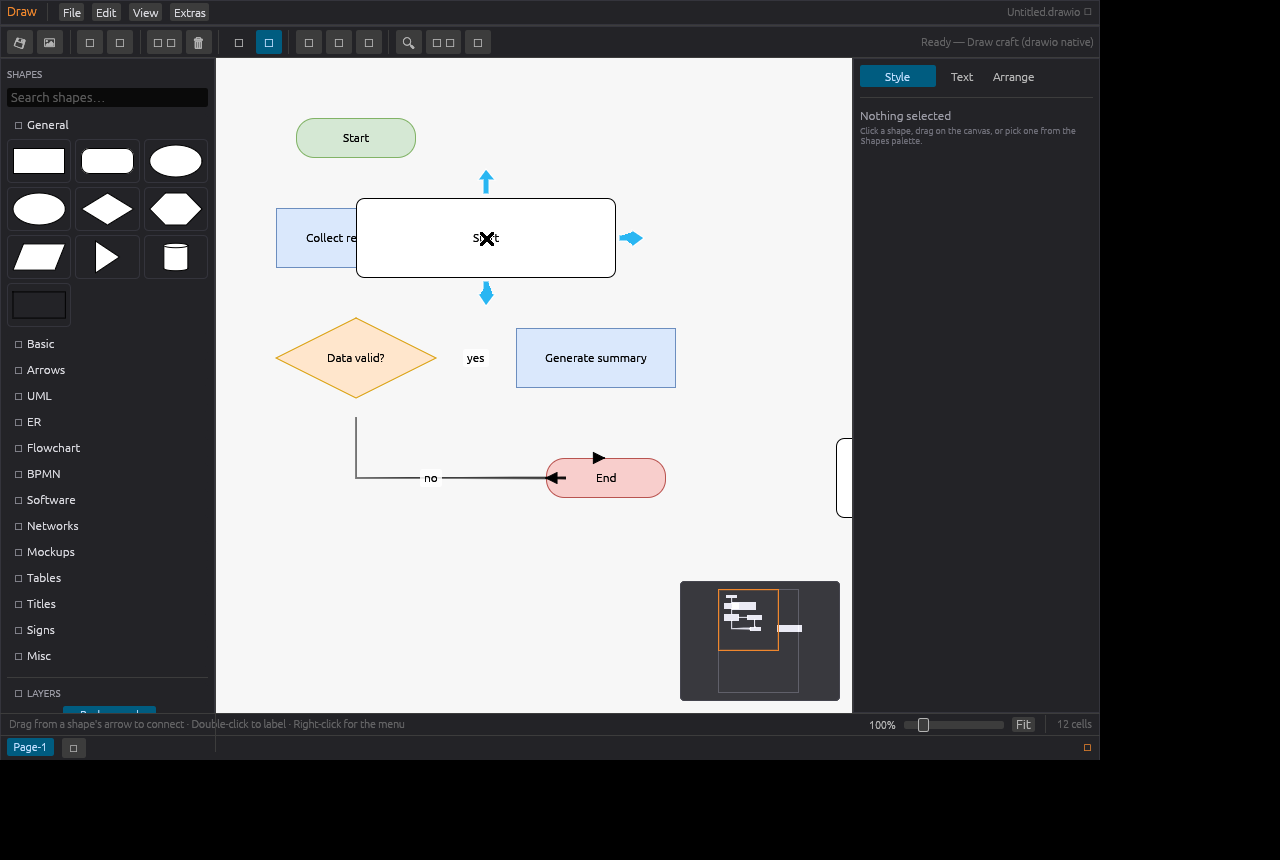
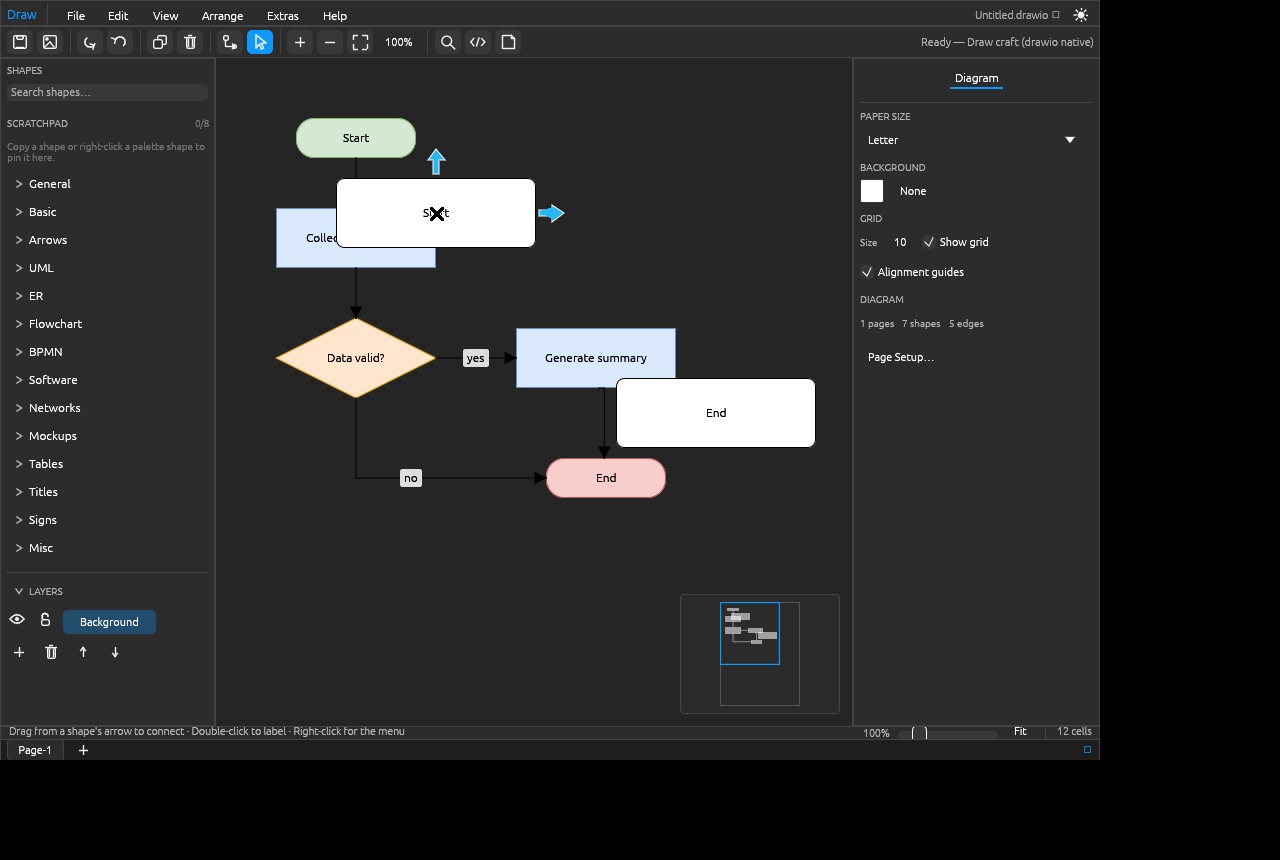
Draw: five drawio-parity fixes — edge rendering, drag math, connection jetties, edge-touch arrows, edge click-select
- paint_edge: seed the jump-path with the polyline's first point — 2-point
  edges painted nothing (Start->Collect etc. invisible), longer routes lost
  their first segment (Generate->End rendered as a stray sideways arrowhead)
- orthogonal_chain: target jetty flipped outward (b.pos + enter_dir*jb) so
  the line stops short of the border instead of overshooting into the shape
  and doubling back with a backwards arrowhead; side-aware bends via
  terminal_axis() (mxGraph OrthConnector dir semantics): final run vertical
  into top/bottom borders, horizontal into left/right; first waypoint bend
  keeps the exit axis
- Drag::Move: grab = press-world position (was the shape-origin offset,
  double-counted as delta — dragging teleported nodes by their own x/y)
- hover arrows stay bright while the pointer is within 8px of the shape
  border (drawio HoverIcons tolerance); widget padding 3->1 so presses on
  the border still drag the node
- pick_edge: hit-test in screen space (routes are screen-space; world-space
  pointer never matched when the canvas origin != 0) + edge selection moved
  to the click path (egui 0.36 postpones drag_started for motionless presses)

Verified under Xvfb: all sample edges render drawio-exact, node drag moves
by the exact pointer delta with edges re-anchoring live, arrow-drag connect
at fixed points and endpoint re-link pass shots/connect-test.sh, unit tests
green. Gallery shots 06/12-19 re-captured on the fixed build; before/after
[…]

diff --git a/crates/drawio/src/canvas.rs b/crates/drawio/src/canvas.rs
@@ -427,8 +427,8 @@ fn canvas_input(
                     return;
                 }
                 // vertex / edge pick
-                let picked = pick_vertex(app.page(), world, false).map(|c| (c.id.clone(), c.geom.x, c.geom.y));
-                if let Some((id, px, py)) = picked {
+                let picked = pick_vertex(app.page(), world, false).map(|c| c.id.clone());
+                if let Some(id) = picked {
                     if !app.selected.contains(&id) {
                         let mods = ui.input(|i| i.modifiers);
                         if mods.shift {
@@ -437,12 +437,15 @@ fn canvas_input(
                             app.selected = vec![id.clone()];
                         }
                     }
-                    let grab = Vec2::new(world.x - px, world.y - py);
                     let ids = app.selected.clone();
                     let orig = positions(app, &ids);
+                    // press-world reference: the drag delta is world − press
+                    // (grab used to store the shape-origin offset, which
+                    // double-counted it and teleported nodes by their own x/y)
+                    let grab = Vec2::new(world.x, world.y);
                     app.push_undo();
                     app.drag = Drag::Move { ids, grab, orig, moved: false };
-                } else if let Some(id) = pick_edge(routes, world, app.zoom) {
+                } else if let Some(id) = pick_edge(routes, p, app.zoom) {
                     if !app.selected.contains(&id) {
                         app.selected = vec![id];
                     }
@@ -579,8 +582,16 @@ fn canvas_input(
                 }
             }
             Tool::Select => {
-                // plain click without drag on empty: clear selection
-                if pick_vertex(app.page(), world, false).is_none() && pick_edge(routes, world, app.zoom).is_none() {
+                // drawio selects on mouse-up. egui 0.36 postpones drag_started
+                // for motionless presses, so a plain click owns edge selection
+                // (vertex selection happens on press; keep it here).
+                if pick_vertex(app.page(), world, false).is_some() {
+                    // keep the press-time selection
+                } else if let Some(id) = pick_edge(routes, p, app.zoom) {
+                    if !app.selected.contains(&id) {
+                        app.selected = vec![id];
+                    }
+                } else {
                     app.selected.clear();
                 }
                 app.ctx_menu = None;
@@ -638,7 +649,7 @@ fn canvas_input(
             let v = c.value.clone();
             app.edit_label = Some((c.id.clone(), v.clone(), v));
             app.edit_just_opened = true;
-        } else if let Some(id) = pick_edge(routes, world, app.zoom) {
+        } else if let Some(id) = pick_edge(routes, p, app.zoom) {
             // near an existing waypoint? remove it. near the midpoint? edit label. else add waypoint.
             let near_wp = app
                 .page()
@@ -688,7 +699,7 @@ fn canvas_input(
     if resp.secondary_clicked() {
         let Some(p) = resp.interact_pointer_pos() else { return };
         let world = s2w(p);
-        let cell = pick_vertex(app.page(), world, true).map(|c| c.id.clone()).or_else(|| pick_edge(routes, world, app.zoom));
+        let cell = pick_vertex(app.page(), world, true).map(|c| c.id.clone()).or_else(|| pick_edge(routes, p, app.zoom));
         if let Some(id) = cell.clone()
             && !app.selected.contains(&id)
         {
@@ -812,10 +823,11 @@ fn pick_vertex(page: &Diagram, world: Pos2, include_locked: bool) -> Option<&Cel
     })
 }
 
-fn pick_edge(routes: &[(String, style::EdgeRoute, Vec<Pos2>)], world: Pos2, zoom: f32) -> Option<String> {
+fn pick_edge(routes: &[(String, style::EdgeRoute, Vec<Pos2>)], screen_p: Pos2, zoom: f32) -> Option<String> {
+    // routes are in SCREEN space: hit-test with the screen pointer, not world
     let tol = 6.0 / zoom.max(0.3);
     routes.iter().rev().find_map(|(id, _, pts)| {
-        pts.windows(2).any(|w| dist_to_seg(world, w[0], w[1]) < tol).then(|| id.clone())
+        pts.windows(2).any(|w| dist_to_seg(screen_p, w[0], w[1]) < tol).then(|| id.clone())
     })
 }
 
@@ -1001,7 +1013,10 @@ fn hover_arrows(
         (&ARROW_DOWN_PTS, ARROW_DOWN_SIZE, Pos2::new(cx - ARROW_DOWN_SIZE.0 / 2.0, b.bottom()), (0.5, 1.0)),
         (&ARROW_LEFT_PTS, ARROW_LEFT_SIZE, Pos2::new(b.left() - ARROW_LEFT_SIZE.0, cy - ARROW_LEFT_SIZE.1 / 2.0), (0.0, 0.5)),
     ];
-    let inside_shape = ptr.map(|p| shape_r.expand(2.0).contains(p)).unwrap_or(false);
+    let inside_shape = ptr.map(|p| shape_r.expand(8.0).contains(p)).unwrap_or(false);
+    // "touch on the edge": arrows stay bright while the pointer is on the
+    // shape or within 8 px of its border (drawio keeps HoverIcons active
+    // across the whole shape bbox + tolerance, not only the interior)
     // drawio draws edge-endpoint handles ABOVE the hover icons — when a
     // selected edge's endpoint sits at a fixed point, its handle must win the
     // press over the shape's arrow (mxConstraintHandler/overlay pane order).
@@ -1041,7 +1056,7 @@ fn hover_arrows(
         if overlapped {
             continue;
         }
-        let hresp = ui.allocate_rect(box_r.expand(3.0), Sense::click_and_drag());
+        let hresp = ui.allocate_rect(box_r.expand(1.0), Sense::click_and_drag());
         // inactiveOpacity 15 until the pointer reaches the shape or the arrow
         let alpha = if hresp.hovered() || hresp.dragged() || inside_shape { 255u8 } else { ARROW_INACTIVE_ALPHA };
         let fill = Color32::from_rgba_unmultiplied(0x29, 0xb6, 0xf2, alpha);
@@ -1417,8 +1432,14 @@ fn paint_edge(p: &egui::Painter, pts: &[Pos2], st: &str, look: &Look, jumps: &[(
     match style::edge_route(st) {
         style::EdgeRoute::Curved => paint_curve(p, pts, look, &dash, st),
         _ => {
-            // path with jump arcs
-            let mut path: Vec<Pos2> = Vec::with_capacity(pts.len() + jumps.len() * 6);
+            // path with jump arcs. Seed with the FIRST point: each window only
+            // pushes its end, so without the seed a 2-point edge collapses to a
+            // single point and paints nothing (and longer routes lose their
+            // first segment).
+            let mut path: Vec<Pos2> = Vec::with_capacity(pts.len() + jumps.len() * 6 + 1);
+            if let Some(first) = pts.first() {
+                path.push(*first);
+            }
             let jr = (4.0 * zoom.max(0.5)).min(9.0);
             for (si, w) in pts.windows(2).enumerate() {
                 let seg_jumps: Vec<f32> = jumps.iter().filter(|(s, _)| *s == si).map(|(_, t)| *t).collect();

diff --git a/crates/drawio/examples/connect-demo.rs b/crates/drawio/examples/connect-demo.rs
@@ -37,7 +37,7 @@ impl eframe::App for Demo {
             dump += &format!("\"view\":[{:.1},{:.1}],", r.min.x, r.min.y);
         }
         dump += &format!(
-            "\"pan\":[{:.1},{:.1}],\"zoom\":{:.2},\"connect\":\"{}\",\"hover\":{},",
+            "\"pan\":[{:.1},{:.1}],\"zoom\":{:.2},\"connect\":\"{}\",\"hover\":{},\"selected\":{},",
             self.0.pan.x, self.0.pan.y, self.0.zoom,
             match &self.0.connect {
                 doccraft_drawio::connection::ConnectState::Idle => "Idle".into(),
@@ -45,6 +45,7 @@ impl eframe::App for Demo {
                 doccraft_drawio::connection::ConnectState::EndpointDrag { edge, .. } => format!("EndpointDrag({edge})"),
             },
             self.0.hover.as_ref().map(|(id, _)| format!("\"{id}\"")).unwrap_or("null".into()),
+            format!("[{}]", self.0.selected.iter().map(|i| format!("\"{i}\"")).collect::<Vec<_>>().join(",")),
         );
         dump += "\"shapes\":[";
         let mut first = true;
@@ -58,11 +59,17 @@ impl eframe::App for Demo {
         }
         dump += "],\"edges\":[";
         first = true;
+        let (pan, zoom) = (self.0.pan, self.0.zoom);
         for c in page.cells.iter().filter(|c| c.edge) {
             if !first { dump += ","; }
             first = false;
+            // world-space route points (screen = view + pan + p*zoom)
+            let pts = doccraft_drawio::connection::route_points(&page, c);
+            let pts_s: Vec<String> = pts.iter()
+                .map(|p| format!("[{:?},{:?}]", p.x, p.y))
+                .collect();
             dump += &format!(
-                "{{\"id\":\"{}\",\"source\":{},\"target\":{},\"exitX\":{},\"exitY\":{},\"entryX\":{},\"entryY\":{}}}",
+                "{{\"id\":\"{}\",\"source\":{},\"target\":{},\"exitX\":{},\"exitY\":{},\"entryX\":{},\"entryY\":{},\"route\":[{}],\"style\":\"{}\"}}",
                 c.id,
                 opt(&c.source),
                 opt(&c.target),
@@ -70,6 +77,8 @@ impl eframe::App for Demo {
                 js(&style_num(&c.style, "exitY")),
                 js(&style_num(&c.style, "entryX")),
                 js(&style_num(&c.style, "entryY")),
+                pts_s.join(","),
+                c.style.replace('"', "'"),
             );
         }
         dump += "]}";
@@ -77,6 +86,28 @@ impl eframe::App for Demo {
         let tmp = std::path::Path::new("/tmp/drawio-edges.json.tmp");
         if std::fs::write(tmp, dump.as_bytes()).is_ok() {
             let _ = std::fs::rename(tmp, "/tmp/drawio-edges.json");
+        }
+
+        // DEBUG overlay: magenta route lines to discriminate engine-vs-paint.
+        if std::env::var("DEMO_DEBUG").is_ok()
+            && let Some(r) = self.0.view_rect
+        {
+            let (pan, zoom) = (self.0.pan, self.0.zoom);
+            let w2s = |p: egui::Pos2| r.min + pan + p.to_vec2() * zoom;
+            let painter = ui.painter_at(r);
+            for c in page.cells.iter().filter(|c| c.edge) {
+                let pts: Vec<egui::Pos2> =
+                    doccraft_drawio::connection::route_points(&page, c).into_iter().map(w2s).collect();
+                if pts.len() >= 2 {
+                    painter.add(egui::Shape::line(
+                        pts.clone(),
+                        egui::Stroke::new(2.0, egui::Color32::from_rgb(0xff, 0x00, 0xff)),
+                    ));
+                }
+                for p in &pts {
+                    painter.circle_filled(*p, 3.0, egui::Color32::from_rgb(0x00, 0xff, 0x00));
+                }
+            }
         }
     }
 }
@@ -107,16 +138,23 @@ fn main() -> eframe::Result {
             .with_decorations(false),
         ..Default::default()
     };
+    // DEMO_PAGE=sample → the plain sample flowchart (user-scenario repro);
+    // default → the two-shape connect-parity harness page.
+    let sample = std::env::var("DEMO_PAGE").as_deref() == Ok("sample");
     eframe::run_native(
         "drawio connect demo",
         opts,
-        Box::new(|_cc| {
+        Box::new(move |_cc| {
             let mut app = DrawApp::new();
-            app.edit_page(|page| {
-                // two rectangles that both fit the default canvas viewport
-                page.add_vertex("Start", DEFAULT_VERTEX_STYLE, 120.0, 120.0, 200.0, 70.0);
-                page.add_vertex("End", DEFAULT_VERTEX_STYLE, 400.0, 320.0, 200.0, 70.0);
-            });
+            if sample {
+                app.edit_page(|page| *page = DrawApp::new().file.diagrams[0].clone());
+            } else {
+                app.edit_page(|page| {
+                    // two rectangles that both fit the default canvas viewport
+                    page.add_vertex("Start", DEFAULT_VERTEX_STYLE, 120.0, 120.0, 200.0, 70.0);
+                    page.add_vertex("End", DEFAULT_VERTEX_STYLE, 400.0, 320.0, 200.0, 70.0);
+                });
+            }
             Ok(Box::new(Demo(app)))
         }),
     )

diff --git a/crates/drawio/src/connection.rs b/crates/drawio/src/connection.rs
@@ -472,19 +472,87 @@ fn orthogonal_chain(page: &Diagram, a: Endpt, wps: &[Pos2], b: Endpt, cell: &Cel
         pts.push(a.pos + exit_dir * ja);
     }
     let mut cur = *pts.last().unwrap();
-    for w in wps {
-        pts.extend(elbow_pts(cur, *w));
+    // terminal approach axes (mxGraph OrthConnector): the segment adjacent to
+    // a terminal travels perpendicular to the host-shape side it sits on
+    let src_axis = cell
+        .source
+        .as_deref()
+        .and_then(|id| page.cell(id))
+        .map(|h| terminal_axis(h.rect(), a.pos));
+    let dst_axis = cell
+        .target
+        .as_deref()
+        .and_then(|id| page.cell(id))
+        .map(|h| terminal_axis(h.rect(), b.pos));
+    // first bend keeps the exit axis (collinear with the jetty), so the edge
+    // never doubles back into its own shape
+    let horiz_first = if exit_dir != Vec2::ZERO {
+        Some(exit_dir.x != 0.0)
+    } else {
+        src_axis.map(|ax| ax == Axis::Horizontal)
+    };
+    for (i, w) in wps.iter().enumerate() {
+        if i == 0 {
+            if let Some(horiz) = horiz_first {
+                let bend = if horiz { Pos2::new(w.x, cur.y) } else { Pos2::new(cur.x, w.y) };
+                if bend.distance(cur) > 0.5 && bend.distance(*w) > 0.5 {
+                    pts.push(bend);
+                }
+            } else {
+                pts.extend(elbow_pts(cur, *w));
+            }
+        } else {
+            pts.extend(elbow_pts(cur, *w));
+        }
         pts.push(*w);
         cur = *w;
     }
+    // target jetty: OUTWARD from the border along the entry direction (the
+    // incoming line stops `jb` short of the shape, then enters perpendicularly)
     let enter_dir = exit_direction(page, cell, false, b, wps.last().copied());
-    let target = if enter_dir != Vec2::ZERO && jb > 0.0 { b.pos - enter_dir * jb } else { b.pos };
-    pts.extend(elbow_pts(cur, target));
-    if enter_dir != Vec2::ZERO && jb > 0.0 {
+    let stub = enter_dir != Vec2::ZERO && jb > 0.0;
+    let target = if stub { b.pos + enter_dir * jb } else { b.pos };
+    if stub {
+        // bend perpendicular to the terminal side so the final run is aligned
+        // with the jetty (vertical into top/bottom, horizontal into left/right)
+        let bend = match dst_axis {
+            Some(Axis::Vertical) => Pos2::new(target.x, cur.y),
+            _ => Pos2::new(cur.x, target.y),
+        };
+        if bend.distance(cur) > 0.5 {
+            pts.push(bend);
+        }
         pts.push(target);
+    } else if let Some(ax) = dst_axis {
+        // no jetty: still approach along the terminal axis
+        let bend = match ax {
+            Axis::Vertical => Pos2::new(b.pos.x, cur.y),
+            Axis::Horizontal => Pos2::new(cur.x, b.pos.y),
+        };
+        if bend.distance(cur) > 0.5 && bend.distance(b.pos) > 0.5 {
+            pts.push(bend);
+        }
     }
     pts.push(b.pos);
     dedupe(pts)
+}
+
+/// Axis of the terminal approach: the side of `r` that `p` lies on, taken as
+/// the dominant direction from the rect center (works for fixed points on the
+/// border and floating perimeter points of any shape class).
+#[derive(Debug, Clone, Copy, PartialEq, Eq)]
+enum Axis {
+    Horizontal,
+    Vertical,
+}
+
+fn terminal_axis(r: Rect, p: Pos2) -> Axis {
+    let d = p - r.center();
+    if d.x.abs() >= d.y.abs() {
+        Axis::Horizontal
+    } else {
+        Axis::Vertical
+    }
 }
 
 /// Direction the edge leaves (or enters) an endpoint: fixed constraint → the
